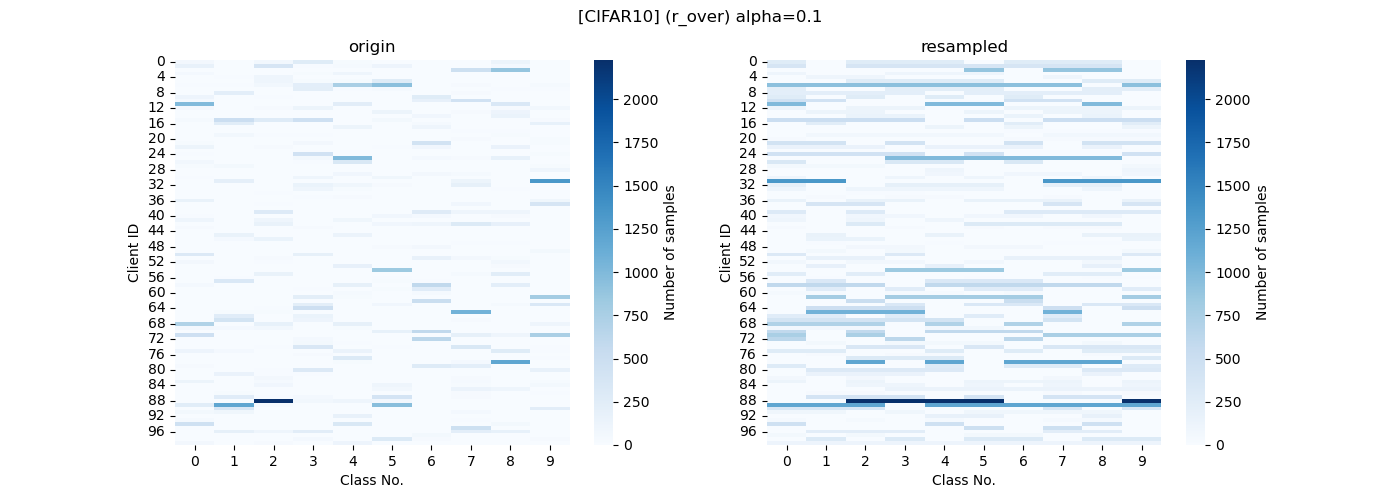
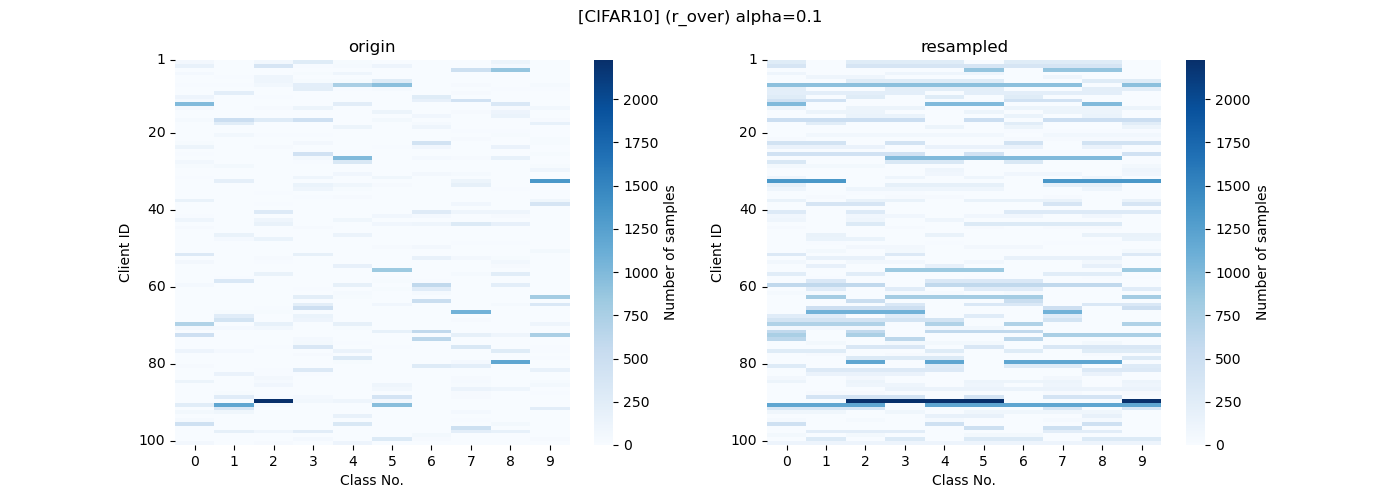
modify figures

Changed region(s): [[0.4914, 0.18, 0.5529, 0.9], [0.0614, 0.18, 0.1229, 0.9], [0.5221, 0.12, 0.5529, 0.15]]

diff --git a/FedLearning/make_historygram.py b/FedLearning/make_historygram.py
@@ -51,8 +51,10 @@ for i, dataset_name in enumerate(dataset_names):
             plt.title('origin')
             plt.xlabel('Class No.')
             plt.ylabel('Client ID')
-            # plt.xticks([0, 9, 20-1, 30-1, 40-1, 50-1, 60-1], ['0', '10', '20', '30', '40', '50', '60'])
-            # plt.yticks([0, 19, 40-1, 60-1, 80-1, 100-1], ['0', '20', '40', '60', '80', '100'])
+            plt.yticks([0, 19, 40-1, 60-1, 80-1, 100-1], ['1', '20', '40', '60', '80', '100'])
+            if dataset_name == 'EMNIST':
+                plt.xticks([0, 9, 20-1, 30-1, 40-1, 50-1, 60-1], ['0', '10', '20', '30', '40', '50', '60'])
+            
 
             plt.subplot(1, 2, 2)
             ax = sns.heatmap(table_resampled.T, cmap='Blues', fmt='g', vmin=0, vmax=max_v)
@@ -60,8 +62,9 @@ for i, dataset_name in enumerate(dataset_names):
             plt.title('resampled')
             plt.xlabel('Class No.')
             plt.ylabel('Client ID')
-            # plt.xticks([0, 9, 20-1, 30-1, 40-1, 50-1, 60-1], ['0', '10', '20', '30', '40', '50', '60'])
-            # plt.yticks([0, 19, 40-1, 60-1, 80-1, 100-1], ['0', '20', '40', '60', '80', '100'])
+            plt.yticks([0, 19, 40-1, 60-1, 80-1, 100-1], ['1', '20', '40', '60', '80', '100'])
+            if dataset_name == 'EMNIST':
+                plt.xticks([0, 9, 20-1, 30-1, 40-1, 50-1, 60-1], ['0', '10', '20', '30', '40', '50', '60'])
 
             # plt.tight_layout()
             plt.suptitle(f"[{dataset_name}] ({sampling_type}) alpha={alpha}")
